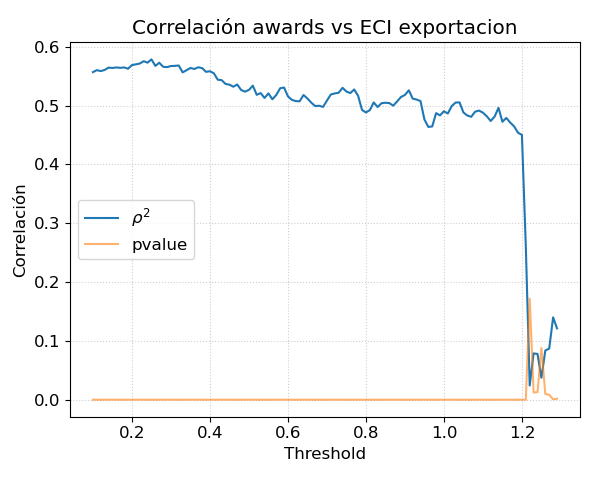
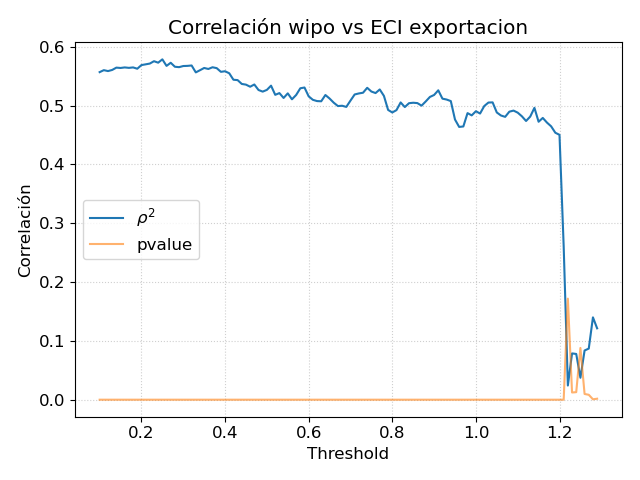
Grafiqué y añadí database para correlacionar capital cultural

diff --git a/run.py b/run.py
@@ -174,7 +174,7 @@ for thre in np.arange(0.1, 1.3, 0.01):
         country : DCI[number][0] for country, number in dicts_DCI[0].items()
     }
 
-    DCI_ECI, _ = test.x_vs_y(DCI_dict, ECIs['ECI_tr']['mean_awards'], wipo_OEC)
+    DCI_ECI, _ = test.x_vs_y(DCI_dict, ECIs['ECI_re']['mean_awards'], wipo_OEC)
     _, [rho, pvalue] = test.reg(DCI_ECI)
     array.append([thre, rho**2, pvalue])
     print(round( i * 100 / N,2))
@@ -185,7 +185,7 @@ plt.plot(array[:, 0], array[:, 1], label = '$\\rho^2$')
 plt.plot(array[:, 0], array[:, 2], label = 'pvalue', alpha = 0.6)
 plt.xlabel('Threshold')
 plt.ylabel('Correlación')
-plt.title('Correlación awards vs ECI exportacion')
+plt.title('Correlación wipo vs ECI investigación')
 plt.tight_layout()
 plt.legend()
 plt.grid(alpha = 0.6, linestyle = ':')
